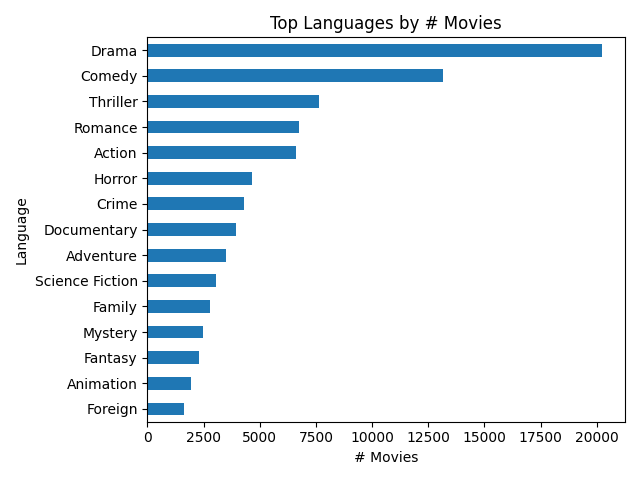
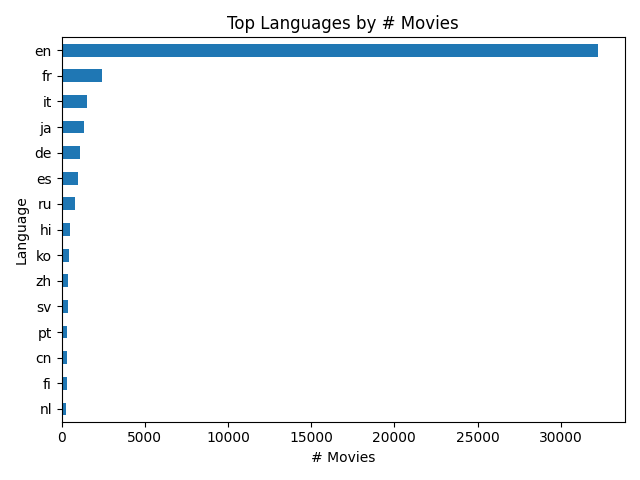
ready

diff --git a/app/functions.py b/app/functions.py
@@ -310,6 +310,7 @@ class KNN:
         return self.titles
 
     def item_item_knn(self, user_idx, k=50):
+        print("item_item_knn is called!")
         """Score all items for a given user with item–item cosine."""
         user_row = self.R[user_idx, :]
         seen_items = user_row.nonzero()[1]
@@ -330,6 +331,7 @@ class KNN:
         return scores
 
     def user_user_knn(self, user_idx, k=50):
+        print("user_user_knn is called!")
         """Score items for a given user with user–user Pearson similarity."""
         # convert to dense array (safe if dataset <10k users/items; otherwise we can optimize)
         R_dense = self.R.toarray().astype(float)
@@ -427,15 +429,8 @@ class KNN:
         # Precompute tmdb_ids and titles efficiently
         tmdb_ids = [self.iid_map[i] for i in sorted_top_idx]
 
-        # Optimize title lookup - check for TITLE_BY_ID once
-        if 'TITLE_BY_ID' in globals():
-            titles = [TITLE_BY_ID.get(int(t), str(t)) for t in tmdb_ids]
-        else:
-            titles = [str(t) for t in tmdb_ids]
-
         return pd.DataFrame({
             "tmdbId": tmdb_ids,
-            "title": titles,
             "score": scores[sorted_top_idx]
         })
 

diff --git a/ExploratoryDataAnalysis.py b/ExploratoryDataAnalysis.py
@@ -195,7 +195,7 @@ class EDA:
         plot.save_simple_plot(self.monthly, "n_ratings", "Month", "Number of ratings", "Ratings Volume Over Time (Monthly)","Ratings_Volume_Over_Time(Monthly)")
         plot.save_simple_plot(self.monthly, "avg_rating", "Month", "Average of ratings","Ratings Average Over Time (Monthly)", "Ratings_Average_Over_Time(Monthly)")
         plot.save_bar(self.genre_counts, "# Movies", "Genre", "Top Genres by # Movies", "Top_Genres_by_Movies")
-        plot.save_bar(self.genre_counts, "# Movies", "Language", "Top Languages by # Movies", "Top_Languages_by_Movies")
+        plot.save_bar(self.lang_counts, "# Movies", "Language", "Top Languages by # Movies", "Top_Languages_by_Movies")
         print("===== Save plots is ended! =====")
 
     def get_r_full(self):

diff --git a/main.py b/main.py
@@ -14,6 +14,9 @@ from app.functions import Recommendator, KNN, Hybrid, RecommenderEvaluator
 
 eda = EDA()
 r_full = eda.get_r_full()
+
+print(r_full.head())
+
 baseline = Baseline(r_full)
 baseline_res = baseline.final_results()
 global_wr = baseline_res["global_wr"]
